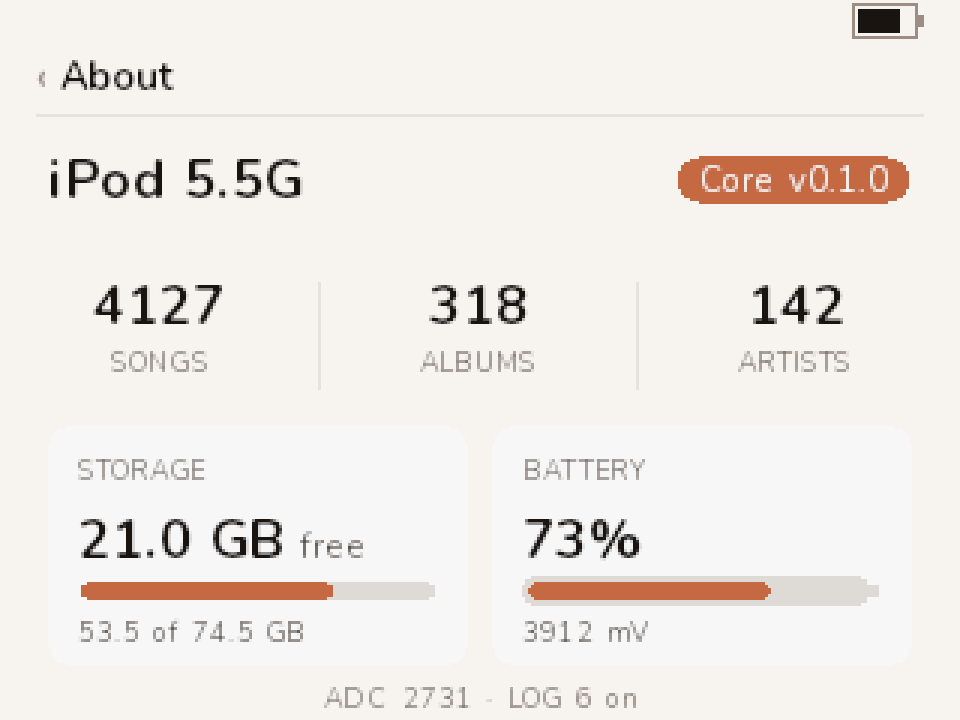
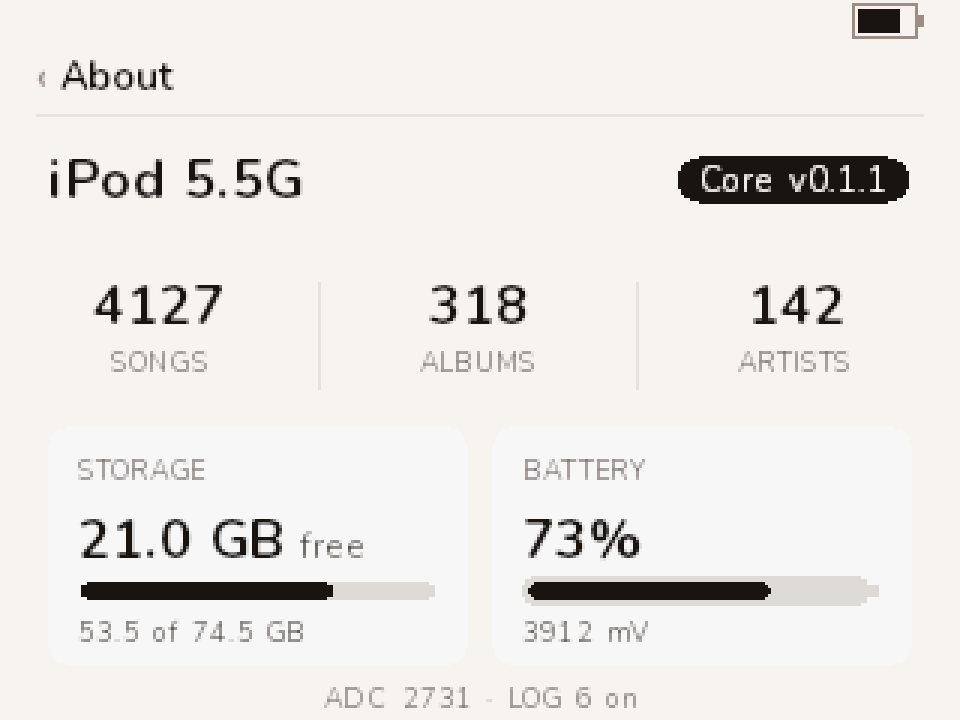
ui: About in ink, not accent; Hold images renamed — v0.1.1
About's Core chip and its two gauges drew in the theme's accent, the one
colour reserved for progress-as-warning and low battery. They now use the
theme's ink, like every other bar and chip, so the page matches the theme
instead of standing out from it. The theme picker's swatch dot keeps each
theme's accent, because that is what it is showing.

The Hold-banner gallery files are renamed (lock.gif -> hold.gif, lock.png ->
hold_unlocked.png, locked.png -> hold_locked.png, locked_list.png ->
hold_locked_list.png): the names say what they show, and the new paths stop
GitHub's image cache from serving the old centred plates under the old URLs.
Stills stamped v0.1.1, the tag placed on this commit.

Claude-Session: https://claude.ai/code/session_01Q6tAT1B8fepK5paY668gLh

Changed region(s): [[0.6875, 0.2139, 0.9688, 0.3056], [0.5312, 0.7944, 0.8125, 0.8556], [0.0625, 0.7944, 0.3438, 0.8556]]

diff --git a/docs/screens/render.py b/docs/screens/render.py
@@ -1115,7 +1115,7 @@ def screen_about(lib_truncated=AB_LIB_TRUNCATED):
     chip = "Core " + VERSION if VERSION else "Core"
     cw = text_width(chip, FONT_SUB)
     chw, chx, chy = cw + 16, W - 16 - (cw + 16), 52
-    sc.fill_round_rect(chx, chy, chw, 16, 8, ACCENT)
+    sc.fill_round_rect(chx, chy, chw, 16, 8, INK)
     sc.text(chx + 8, chy + 12, chip, FONT_SUB, SURFACE)
     if lib_truncated:
         sc.text_centered(84, "Library too large " + MIDDOT + " some items not shown",
@@ -1146,7 +1146,7 @@ def screen_about(lib_truncated=AB_LIB_TRUNCATED):
     if fw < bh and used > 0:
         fw = bh
     fw = min(fw, bw)
-    sc.fill_round_rect(ix, by, fw, bh, 3, ACCENT)
+    sc.fill_round_rect(ix, by, fw, bh, 3, INK)
     used_str = fmt_gb(used).split(" ")[0]          # "53.5 GB" -> "53.5"
     sc.text(ix, AB_CARD_Y + 72, used_str + " of " + fmt_gb(AB_TOTAL_MB), FONT_SMALL, MUTED_D)
 
@@ -1160,7 +1160,7 @@ def screen_about(lib_truncated=AB_LIB_TRUNCATED):
     fw2 = (gw - 4) * pct // 100
     if fw2 < 2 and pct > 0:
         fw2 = 2
-    sc.fill_round_rect(gx + 2, gy + 2, fw2, gh - 4, 2, ACCENT)
+    sc.fill_round_rect(gx + 2, gy + 2, fw2, gh - 4, 2, INK)
     sc.text(ix, AB_CARD_Y + 72, str(AB_BATT_MV) + " mV", FONT_SMALL, MUTED_D)
 
     # --- diagnostics footer: raw ADC code + the event log sequence ---
@@ -1383,7 +1383,7 @@ def gif_lock():
     # Hold disengaged: the UNLOCKED banner, and the strip padlock is gone.
     spec.append((_lock_screen(False, elapsed=e, glyph=False), 5, 170)); e += 1
     spec.append((_np(e), 3, 160))
-    return _save_gif("lock.gif", spec)
+    return _save_gif("hold.gif", spec)
 
 
 def gif_settings():
@@ -2013,9 +2013,9 @@ def main():
     outputs.append(save_png(screen_genres(), "genres.png"))
     outputs.append(save_png(screen_about(), "about.png"))
     outputs.append(save_png(screen_volume(), "volume.png"))
-    outputs.append(save_png(screen_lock(), "lock.png"))
-    outputs.append(save_png(screen_locked(), "locked.png"))
-    outputs.append(save_png(screen_locked_list(), "locked_list.png"))
+    outputs.append(save_png(screen_lock(), "hold_unlocked.png"))
+    outputs.append(save_png(screen_locked(), "hold_locked.png"))
+    outputs.append(save_png(screen_locked_list(), "hold_locked_list.png"))
     # --- new: library / browsing ---
     outputs.append(save_png(screen_mainmenu(), "mainmenu.png"))
     outputs.append(save_png(screen_music(), "music.png"))

diff --git a/core/ui/screen_settings.c b/core/ui/screen_settings.c
@@ -428,7 +428,7 @@ void settings_about_render(int battery_pct, int battery_mv, int battery_raw,
         }
         int cw = text_width(chip, F_SUB);
         int chw = cw + 16, chx = LCD_WIDTH - 16 - chw, chy = 52;
-        ui_round_rect(chx, chy, chw, 16, 8, S_ACCENT);
+        ui_round_rect(chx, chy, chw, 16, 8, S_INK);
         st_text(chx + 8, chy + 12, chip, F_SUB, S_SURFACE);
     }
     /* A capped load is the one thing the stat columns below cannot show on
@@ -469,7 +469,7 @@ void settings_about_render(int battery_pct, int battery_mv, int battery_raw,
             int fw = (int)(((unsigned long long)used * bw) / total_mb);
             if (fw < bh && used > 0) fw = bh;
             if (fw > bw) fw = bw;
-            ui_round_rect(ix, by, fw, bh, 3, S_ACCENT);
+            ui_round_rect(ix, by, fw, bh, 3, S_INK);
             fmt_gb(v, used);                 /* "55.3 GB" ...                */
             { int i = 0; while (v[i] && v[i] != ' ') i++; v[i] = '\0'; }   /* ..."55.3" */
             su_append(v, " of ");
@@ -495,7 +495,7 @@ void settings_about_render(int battery_pct, int battery_mv, int battery_raw,
             int pct = battery_pct > 100 ? 100 : battery_pct;
             int fw  = (gw - 4) * pct / 100;
             if (fw < 2 && pct > 0) fw = 2;
-            ui_round_rect(gx + 2, gy + 2, fw, gh - 4, 2, S_ACCENT);
+            ui_round_rect(gx + 2, gy + 2, fw, gh - 4, 2, S_INK);
         }
         /*
          * Millivolts, per battery.h's own instruction to "display raw

diff --git a/docs/screens/README.md b/docs/screens/README.md
@@ -122,7 +122,7 @@ A screenshot here is a claim about what the device draws. So:
 | `playlists.png` | Music → Playlists list | `screen_playlists` |
 | `detail.png` | album detail (tracklist) | `screen_detail` |
 | `nowplaying.png` `volume.png` | Now Playing, volume plate | `screen_nowplaying`, `screen_volume` |
-| `lock.png` `locked.png` `locked_list.png` | Hold-switch banners (Now Playing row / list chrome) | `screen_lock`, `screen_locked`, `screen_locked_list` |
+| `hold_unlocked.png` `hold_locked.png` `hold_locked_list.png` | Hold-switch banners (Now Playing row / list chrome) | `screen_lock`, `screen_locked`, `screen_locked_list` |
 | `settings.png` `sound.png` `clicker.png` `theme.png` | Settings | `screen_settings`, `screen_sound`, `screen_clicker`, `screen_theme` |
 | `about.png` `bootdetails.png` | About dashboard, Boot Details | `screen_about`, `screen_diag` |
 | `nowplaying_onyx.png` `albums_onyx.png` | the Onyx theme | `with_palette(ONYX, …)` |
@@ -132,11 +132,11 @@ A screenshot here is a claim about what the device draws. So:
 | `demo.gif` | the walkthrough alone: browse → play | `build_walkthrough_gif` (`walkthrough_spec`) |
 | `boot.gif` | power-on: splash, library bar, main menu | `gif_boot` (`_boot_spec`) |
 | `jump.gif` | Right jumps to Now Playing, Menu returns to the row | `gif_jump` |
-| `browse.gif` `volume.gif` `themes.gif` `lock.gif` `settings.gif` | one feature each | `gif_*` |
+| `browse.gif` `volume.gif` `themes.gif` `hold.gif` `settings.gif` | one feature each | `gif_*` |
 
-Indexed here, not referenced by the top-level README: `demo.gif`, `lock.gif`,
+Indexed here, not referenced by the top-level README: `demo.gif`, `hold.gif`,
 `volume.gif`, `music.png`, `songs.png`, `genres.png`, `sound.png`,
-`clicker.png`, `theme.png`, `lock.png`, `locked_list.png`, `loading_onyx.png`,
+`clicker.png`, `theme.png`, `hold_unlocked.png`, `hold_locked_list.png`, `loading_onyx.png`,
 `albums_onyx.png`. They stay in the gallery; the README shows a smaller set.
 
 ## Keeping it honest

diff --git a/design_reference/README.md b/design_reference/README.md
@@ -125,8 +125,8 @@ longer drops the battery and the track off the top of the screen.
 > announces a Hold edge by inverting the TOP CHROME for ~1 s instead — an ink
 > band with a closed padlock and "Locked", a surface band with the popped-open
 > padlock and "Unlocked" — so the title and the art stay uncovered. The
-> persistent strip padlock is unchanged. See `docs/screens/locked.png`,
-> `docs/screens/lock.png` and `docs/screens/locked_list.png`.
+> persistent strip padlock is unchanged. See `docs/screens/hold_locked.png`,
+> `docs/screens/hold_unlocked.png` and `docs/screens/hold_locked_list.png`.
 
 ---
 
@@ -145,7 +145,7 @@ The interactive prototype treats navigation as a stack of frames:
 - **Wheel rotation:**
   - On Now Playing → volume (briefly shows overlay)
   - On lists → moves selection
-- **Hold switch (top of device):** toggles a global lock. While locked, all wheel input is blocked and shows a 1s "LOCKED" plate (the firmware ships this as a top-chrome banner rather than a centred plate — `docs/screens/locked.png`). Status bars across all screens render a small lock glyph next to the battery.
+- **Hold switch (top of device):** toggles a global lock. While locked, all wheel input is blocked and shows a 1s "LOCKED" plate (the firmware ships this as a top-chrome banner rather than a centred plate — `docs/screens/hold_locked.png`). Status bars across all screens render a small lock glyph next to the battery.
 
 Lists scroll automatically so the selection stays visible (~1/3 from the top of the viewport).
 

diff --git a/docs/USER_GUIDE.md b/docs/USER_GUIDE.md
@@ -40,7 +40,7 @@ and the wheel do nothing while it is on; a press shows the banner again. A small
 the status strip. Slide it off for the Unlocked banner. Touch the wheel or a button and the banner
 goes away at once.
 
-<p align="center"><img src="screens/lock.gif" alt="the Hold banner" width="360"></p>
+<p align="center"><img src="screens/hold.gif" alt="the Hold banner" width="360"></p>
 
 ## The status strip
 

diff --git a/README.md b/README.md
@@ -72,7 +72,7 @@ left.
   <tr>
     <td><img src="docs/screens/nowplaying.png" width="260" alt="Now Playing"></td>
     <td><img src="docs/screens/volume.png" width="260" alt="Volume overlay"></td>
-    <td><img src="docs/screens/locked.png" width="260" alt="Hold banner"></td>
+    <td><img src="docs/screens/hold_locked.png" width="260" alt="Hold banner"></td>
   </tr>
 </table>
 
